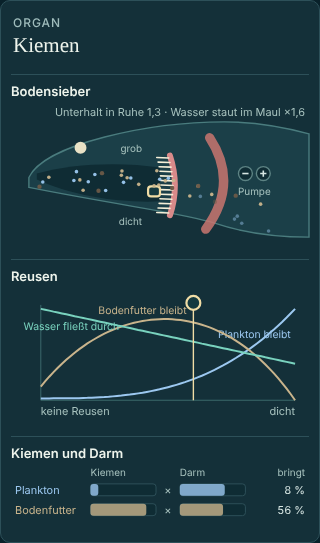
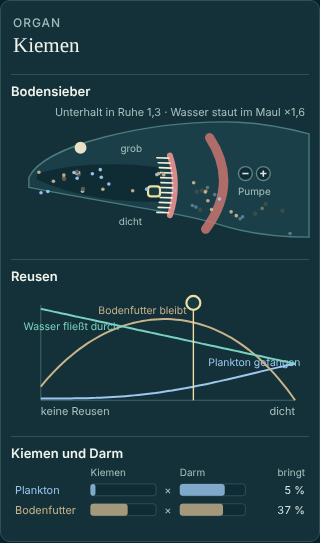
Entwurf Abwehr und Kiemen nach Astras Gegenprüfung: Stachelkraft n/16 ohne Faktor 4, aktive Höhe getrennt von der Ruhehöhe, Schutz je Gruppe gewichtet, Widerstand statt Tempo, Angreifer im Bild; Kiemen: Fang = Durchfluss × Rückhalt, Bodenfutter über den Öffner, Schlamm nie in den Darm, ohne Reusen k
Claude-Session: https://claude.ai/code/session_01SAD6gcsuZjdDe9bFzLa7Yk

diff --git a/entwuerfe/inspektoren.html b/entwuerfe/inspektoren.html
@@ -1908,7 +1908,7 @@ function drawGills() {
   el('path', {d : 'M26 70 C60 60 110 58 150 64 L150 98 C110 100 60 92 26 76 Z', fill : '#0f2c34'}, svg);
   el('circle', {cx : 70, cy : 44, r : 6, fill : '#e9e2c6'}, svg);
   // The gill arch with its rakers: as many and as fine as the density.
-  const ax = 160, ay0 = 52, ay1 = 112, n = Math.round(3 + 17 * d);
+  const ax = 160, ay0 = 52, ay1 = 112, n = Math.round(20 * d);
   el('path', {d : `M${ax} ${ay0} Q${ax + 10} ${(ay0 + ay1) / 2} ${ax} ${ay1}`, stroke : '#d98a8a', 'stroke-width' : 6, fill : 'none', 'stroke-linecap' : 'round'}, svg);
   for (let k = 0; k < n; k++) { const t = (k + .5) / n, y = ay0 + (ay1 - ay0) * t, x = ax + 10 * 4 * t * (1 - t) * .5; el('path', {d : `M${x - 2} ${y} l-12 ${-2 + 4 * (1 - d)}`, stroke : '#f4efd8', 'stroke-width' : 1 + 1.6 * (1 - d), 'stroke-linecap' : 'round'}, svg); }
   // The gill cover with its pump muscle; its cells as width, its fibres as colour.
@@ -1930,7 +1930,8 @@ function drawGillTrade() {
   const c = document.getElementById('gillrake'); c.replaceChildren();
   const L = 30, R = 286, top = 20, base = 112, X = d => L + (R - L) * d, Y = v => base - (base - top) * v, N = 60;
   el('path', {d : `M${L} ${base} H${R} M${L} ${base} V${top - 4}`, stroke : '#3b6a6c', fill : 'none'}, c);
-  for (const [f, colour, word] of [[rakerKeep, '#9cc8f0', 'Plankton bleibt'], [rakerSift, '#c9b48c', 'Bodenfutter bleibt'], [rakerPass, '#79d2be', 'Wasser fließt durch']]) {
+  // Plankton caught is the water through the gills times what the rakers hold of it (Astra 19:19).
+  for (const [f, colour, word] of [[d => rakerKeep(d) * rakerPass(d), '#9cc8f0', 'Plankton gefangen'], [rakerSift, '#c9b48c', 'Bodenfutter bleibt'], [rakerPass, '#79d2be', 'Wasser fließt durch']]) {
     el('path', {d : 'M' + Array.from({length : N + 1}, (_, k) => `${X(k / N).toFixed(1)} ${Y(f(k / N)).toFixed(1)}`).join(' L'), fill : 'none', stroke : colour, 'stroke-width' : 2}, c);
     const kx = word.startsWith('Plankton') ? .84 : word.startsWith('Boden') ? .4 : .12, below = word.startsWith('Wasser');
     txt(c, X(kx), Y(f(kx)) + (below ? 15 : -7), word, {'text-anchor' : 'middle', style : `fill:${colour};font-size:10.5px`});
@@ -1947,7 +1948,7 @@ function drawGillChain() {
   const c = document.getElementById('gillflow'); c.replaceChildren();
   const d = GILL.density, T = gut.middle, y0 = 18, x0 = 80, x1 = 170, W = 66;
   txt(c, x0, 10, 'Kiemen', {style : 'font-size:10px'}); txt(c, x1, 10, 'Darm', {style : 'font-size:10px'}); txt(c, 296, 10, 'bringt', {'text-anchor' : 'end', style : 'font-size:10px'});
-  [['Plankton', rakerKeep(d) * GILLFILM.pump, gain(FOOD[3][1], T), '#9cc8f0'], ['Bodenfutter', rakerSift(d), gain(FOOD[2][1], T), '#c9b48c']].forEach(([name, kept, made, colour], k) => {
+  [['Plankton', rakerKeep(d) * rakerPass(d) * GILLFILM.pump, gain(FOOD[3][1], T), '#9cc8f0'], ['Bodenfutter', rakerSift(d) * mouthPower().suck, gain(FOOD[2][1], T), '#c9b48c']].forEach(([name, kept, made, colour], k) => {
     const y = y0 + 20 * k;
     txt(c, 4, y + 10, name, {style : 'fill:' + colour});
     for (const [x, v] of [[x0, kept], [x1, made]]) { el('rect', {x, y, width : W, height : 12, rx : 3, fill : '#0f2c34', stroke : '#2d5059'}, c); el('rect', {x, y, width : W * clamp(v, 0, 1), height : 12, rx : 3, fill : colour, opacity : .8}, c); }
@@ -1965,7 +1966,7 @@ function gillFrame(now) {
   if (!f.last) f.last = now; const dt = Math.min(50, now - f.last) / 16.7; f.last = now;
   if (Math.random() < .25 * rate * dt) {
     const kind = Math.random(), type = kind < .45 ? 'plankton' : kind < .75 ? 'flock' : 'mud';
-    const keep = type === 'plankton' ? rakerKeep(d) : type === 'flock' ? rakerSift(d) : d * .4;
+    const keep = type === 'plankton' ? rakerKeep(d) : type === 'flock' ? rakerSift(d) : 0;
     f.bits.push({x : 24, y : 66 + Math.random() * 24, type, keep : Math.random() < keep, vx : (1.2 + rate) * (.8 + .4 * Math.random())});
   }
   for (const b of f.bits) {
@@ -2007,12 +2008,15 @@ function defPoints() {
   probe.remove();
   return defOutline;
 }
-const defStrength = () => DEF.groups.reduce((t, g) => t + g.cells, 0) / 4;
+// A group is one cell; its 'cells' are its strength in sixteenths (Fable/Astra 19:25–19:26).
+const defStrength = () => DEF.groups.reduce((t, g) => t + g.cells, 0) / 16 * forceOf(DEF.fast);
 const defRest = () => { const c = defStrength(); return .3 * c / (c + 5); };
 const defShare = (g, q) => q.top === g.top && q.u >= DEF_FREE[0] && q.u <= DEF_FREE[1] ? Math.max(0, 1 - Math.abs(q.u - g.at) / g.width) : 0;
 function defRun() {
-  const N = 240, keep = Math.exp(-1 / strokeLen(DEF.fast)), force = forceOf(DEF.fast) * defStrength() * 2, out = [defRest()];
-  for (let st = 1; st <= N; st++) out.push(Math.max(defRest(), Math.min(.85, out[st - 1] * keep + .02 * force * (st < 140 ? 1 : 0))));
+  // The active height starts at 0 and rises with the force; what shows is the higher of it and the
+  // resting height (body.hh:109).
+  const N = 240, keep = Math.exp(-1 / strokeLen(DEF.fast)), force = defStrength(), out = [defRest()]; let h = 0;
+  for (let st = 1; st <= N; st++) { h = Math.min(.85, h * keep + .02 * force * (st < 140 ? 1 : 0)); out.push(Math.max(defRest(), h)); }
   return out;
 }
 function drawDefense() {
@@ -2046,7 +2050,7 @@ function drawDefense() {
     drag(svg, el('rect', {x : ex - 5, y : ey - 5, width : 10, height : 10, rx : 3, style : 'stroke:#eaa886'}, svg), p => { g.width = clamp(Math.abs(pick(p).u - g.at), .03, .3); redraw(); }, 'defend' + dir); }
   if (D.groups.length > 1) signChip(svg, mx + 16, my, '×', () => { D.groups.splice(D.chosen, 1); D.chosen = 0; redraw(); }, true, 6);
   // The attacker: a jaw that comes at the body from where it is dragged.
-  const aq = pts[Math.round(D.attack * (pts.length - 1))], ax = aq.x + aq.nx * 78, ay = aq.y + aq.ny * 78, a = Math.atan2(-aq.ny, -aq.nx);
+  const aq = pts[Math.round(D.attack * (pts.length - 1))], ax = clamp(aq.x + aq.nx * 78, 16, 284), ay = clamp(aq.y + aq.ny * 78, -36, 176), a = Math.atan2(-aq.ny, -aq.nx);
   el('path', {d : `M${(ax - Math.cos(a) * 18).toFixed(1)} ${(ay - Math.sin(a) * 18).toFixed(1)} L${(ax + 10 * Math.cos(a + 2.5)).toFixed(1)} ${(ay + 10 * Math.sin(a + 2.5)).toFixed(1)} M${(ax - Math.cos(a) * 18).toFixed(1)} ${(ay - Math.sin(a) * 18).toFixed(1)} L${(ax + 10 * Math.cos(a - 2.5)).toFixed(1)} ${(ay + 10 * Math.sin(a - 2.5)).toFixed(1)}`, stroke : '#ef6f6f', 'stroke-width' : 3.6, 'stroke-linecap' : 'round', fill : 'none'}, svg);
   txt(svg, ax + Math.cos(a) * 8, ay + Math.sin(a) * 8 + (aq.ny > 0 ? 14 : -8), 'Angreifer', {'text-anchor' : 'middle', style : 'fill:#ef8f8f;font-size:10px'});
   drag(svg, el('circle', {cx : ax, cy : ay, r : 9, style : 'fill:transparent;stroke:none'}, svg), p => { const k = pts.reduce((b, q, j) => Math.hypot(q.x - p.x, q.y - p.y) < Math.hypot(pts[b].x - p.x, pts[b].y - p.y) ? j : b, 0); D.attack = k / (pts.length - 1); redraw(); }, 'defattack');
@@ -2057,7 +2061,7 @@ function drawDefense() {
   signChip(svg, 140, cy, '−', () => { g.cells = Math.max(1, g.cells - 1); redraw(); }, g.cells > 1, 7);
   txt(svg, 158, cy + 4, g.cells, {'text-anchor' : 'middle', class : 'value'});
   signChip(svg, 176, cy, '+', () => { g.cells = Math.min(16, g.cells + 1); redraw(); }, g.cells < 16, 7);
-  txt(svg, 190, cy + 4, 'Zellen der Gruppe', {style : 'font-size:10px'});
+  txt(svg, 190, cy + 4, 'Stärke (Sechzehntel)', {style : 'font-size:10px'});
   svg.setAttribute('viewBox', `0 -44 300 ${cy + 56}`);
   drawDefenseTime(aq);
 }
@@ -2066,23 +2070,25 @@ function drawDefense() {
 function drawDefenseTime(aq) {
   const c = document.getElementById('defenserise'); c.replaceChildren();
   const run = defRun(), N = run.length - 1, L = 30, R = 290, top = 22, base = 118, X = st => L + (R - L) * st / N, Y = v => base - (base - top) * v;
-  const pts = defPoints(), all = DEF.groups.reduce((t, g) => t + pts.reduce((u, q) => u + defShare(g, q), 0), 0);
-  const there = all ? pts.length * DEF.groups.reduce((t, g) => t + defShare(g, aq), 0) / all : 0;
+  // Each group spread over its own width with its strength as weight; 16 sectors (body_plan.cc:837–875).
+  const pts = defPoints(), total = DEF.groups.reduce((t, g) => t + g.cells, 0);
+  const there = 16 / pts.length * DEF.groups.reduce((t, g) => { const sum = pts.reduce((u, q) => u + defShare(g, q), 0); return t + (sum ? g.cells / total * defShare(g, aq) / sum * pts.length : 0); }, 0);
   grid(c, L, R, top, base, 1);
   el('path', {d : 'M' + run.map((h, st) => `${X(st).toFixed(1)} ${Y(h / .85).toFixed(1)}`).join(' L') + ` L${R} ${base} L${L} ${base} Z`, fill : '#d9cfae', opacity : .25, stroke : '#d9cfae', 'stroke-width' : 1.2}, c);
   el('path', {d : 'M' + run.map((h, st) => `${X(st).toFixed(1)} ${Y(Math.min(1, h * there)).toFixed(1)}`).join(' L'), fill : 'none', stroke : '#79d2be', 'stroke-width' : 2.4}, c);
-  el('path', {d : 'M' + run.map((h, st) => `${X(st).toFixed(1)} ${Y(1 / (1 + 2 * h)).toFixed(1)}`).join(' L'), fill : 'none', stroke : '#eaa886', 'stroke-width' : 2}, c);
-  txt(c, L + 4, top - 8, 'Stacheln', {style : 'fill:#d9cfae'}); txt(c, L + 64, top - 8, 'Schutz am Biss', {style : 'fill:#79d2be'}); txt(c, R, top - 8, 'Schwimmtempo', {'text-anchor' : 'end', style : 'fill:#eaa886'});
+  el('path', {d : 'M' + run.map((h, st) => `${X(st).toFixed(1)} ${Y((1 + 2 * Math.max(0, h - defRest())) / 3).toFixed(1)}`).join(' L'), fill : 'none', stroke : '#eaa886', 'stroke-width' : 2}, c);
+  txt(c, L + 4, top - 22, 'Stacheln', {style : 'fill:#d9cfae'}); txt(c, L + 64, top - 22, 'Schutz am Biss', {style : 'fill:#79d2be'}); txt(c, R, top - 8, 'Widerstand im Wasser', {'text-anchor' : 'end', style : 'fill:#eaa886'});
   el('path', {d : `M${X(140)} ${top} V${base}`, stroke : '#7f9a99', 'stroke-dasharray' : '5 4'}, c);
   txt(c, X(140) + 4, base - 6, 'Gefahr vorbei', {style : 'font-size:10px'});
   el('path', {d : `M${L} ${base} H${R} M${L} ${base} V${top - 2}`, stroke : '#3b6a6c', fill : 'none'}, c);
   txt(c, L, base + 15, 'Alarm'); for (const st of [100, 200]) txt(c, X(st), base + 15, st, {'text-anchor' : 'middle'});
   // Fibres: fast ones raise the spines at once, slow ones keep them up longer.
-  const fy = base + 38, fx0 = 92, fx1 = 260;
+  txt(c, L, base + 30, 'Abwehren kostet Energie je Biss; fehlt sie, schützt es weniger.', {style : 'font-size:9.5px'});
+  const fy = base + 50, fx0 = 92, fx1 = 260;
   el('rect', {x : fx0, y : fy - 4, width : fx1 - fx0, height : 8, rx : 4, fill : 'url(#fibregrad)', opacity : .85}, c);
   drag(c, el('circle', {cx : fx0 + (fx1 - fx0) * DEF.fast, cy : fy, r : 7}, c), q => { DEF.fast = clamp((q.x - fx0) / (fx1 - fx0), 0, 1); drawDefense(); }, 'deffibre');
   txt(c, fx0 - 8, fy + 4, 'ausdauernd', {'text-anchor' : 'end', style : 'font-size:10px'}); txt(c, fx1 + 8, fy + 4, 'kräftig', {style : 'font-size:10px'});
-  c.setAttribute('viewBox', '0 0 300 ' + (fy + 12));
+  c.setAttribute('viewBox', '0 -16 300 ' + (fy + 28));
 }
 
 // ---------- Drüse ----------
@@ -2466,7 +2472,7 @@ function drawFins() {
   signChip(svg, 110, cy, '−', () => { g.cells = Math.max(1, g.cells - 1); redraw(); }, g.cells > 1, 7);
   txt(svg, 128, cy + 4, g.cells, {'text-anchor' : 'middle', class : 'value'});
   signChip(svg, 146, cy, '+', () => { g.cells = Math.min(16, g.cells + 1); redraw(); }, g.cells < 16, 7);
-  txt(svg, 160, cy + 4, 'Zellen der Gruppe', {style : 'font-size:10px'});
+  txt(svg, 160, cy + 4, 'Stärke (Sechzehntel)', {style : 'font-size:10px'});
   if (f.groups.length > 1) signChip(svg, 284, cy, '×', () => { f.groups.splice(F.group, 1); F.group = 0; redraw(); }, true, 7);
   const gy = cy + 22;
   txt(svg, 4, gy + 4, 'Gruppen', {style : 'font-size:10px'});
